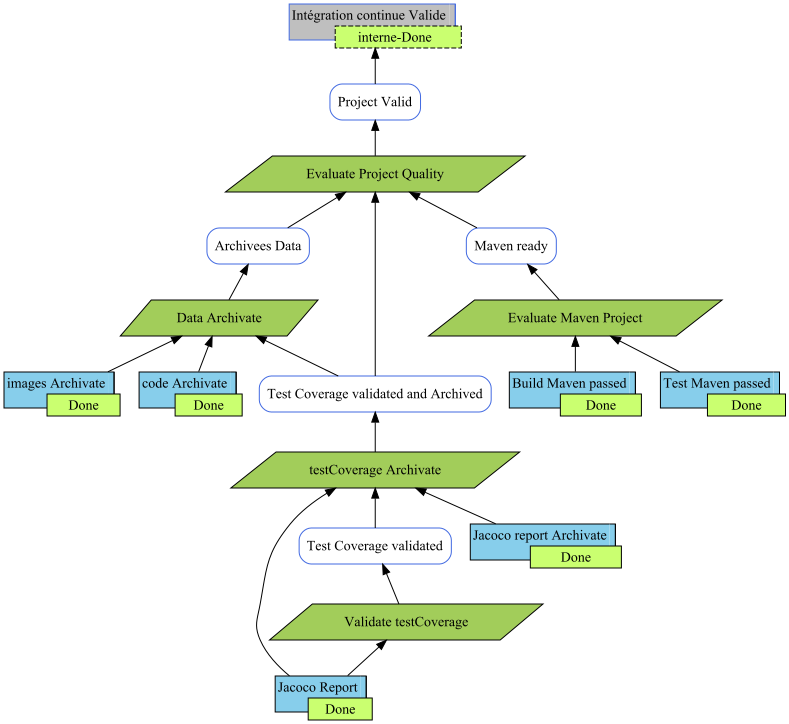
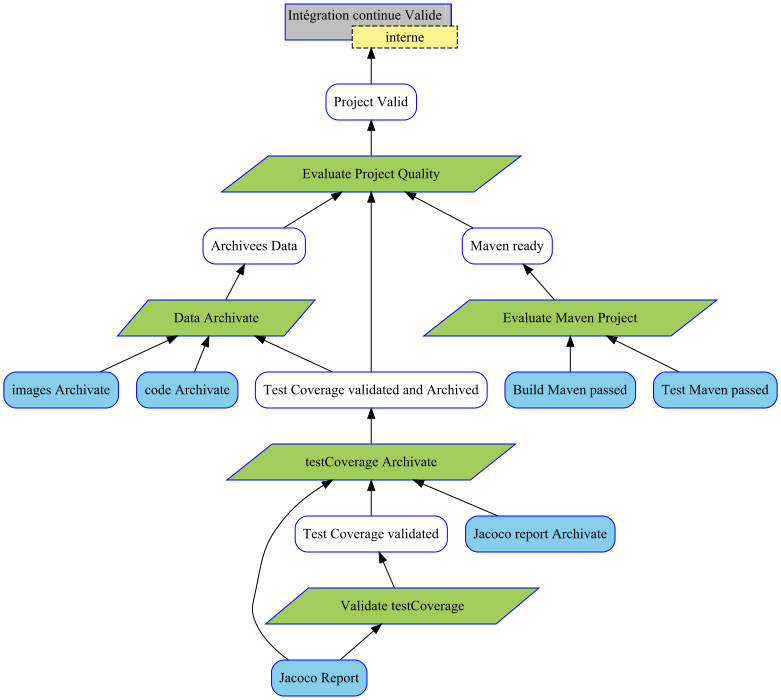
#10 Changement de la couleur du contour de chaque feuille en fonction de leur état

Changed region(s): [[0.0, 0.0, 1.0, 1.0]]

diff --git a/src/main/java/export/GraphDrawer.java b/src/main/java/export/GraphDrawer.java
@@ -37,17 +37,18 @@ public class GraphDrawer implements JDVisitor {
     public void visitConclusion(Conclusion conclusion) {
     	
         if (conclusion.restriction != null) {
-        	String string = conclusion.restriction.replaceAll("\"", "") + " - " + conclusion.state.toString();
+        	String color = setColorUsed(conclusion);
+
             gv.append("\t").append(conclusion.alias).append(" [shape=none margin=0 label=<<table cellspacing=\"0\" " +
                     "cellborder=\"1\" border=\"0\"><tr><td COLSPAN=\"2\" sides=\"LT\" BGCOLOR=\"gray75\" " +
-                    "COLOR=\"royalblue\">").append(conclusion.label, 1, conclusion.label.length() - 1)
-                    .append("</td><td sides=\"TR\" BGCOLOR=\"gray75\" COLOR=\"royalblue\"></td><td sides=\"L\" " +
-                    "COLOR=\"royalblue\"></td></tr><tr><td sides=\"LB\" BGCOLOR=\"gray75\" COLOR=\"royalblue\"></td>" +
-                    "<td sides=\"LTRB\" ROWSPAN=\"2\" colspan=\"3\" port=\"a\" BGCOLOR=\"" + setColorUsed(conclusion) + "\" style=\"dashed\">")
-                    .append(string, 0, string.length())
+                    "COLOR=\"" + color + "\">").append(conclusion.label, 1, conclusion.label.length() - 1)
+                    .append("</td><td sides=\"TR\" BGCOLOR=\"gray75\" COLOR=\"" + color + "\"></td><td sides=\"L\" " +
+                    "COLOR=\"" + color + "\"></td></tr><tr><td sides=\"LB\" BGCOLOR=\"gray75\" COLOR=\"" + color + "\"></td>" +
+                    "<td sides=\"LTRB\" ROWSPAN=\"2\" colspan=\"3\" port=\"a\" BGCOLOR=\"khaki1\" style=\"dashed\">")
+                    .append(conclusion.restriction, 1, conclusion.restriction.length() -1)
                     .append("</td></tr></table>>];\n");
         } else {
-            gv.append("\t").append(conclusion.alias).append(" [shape=box, style=\"filled,rounded\", color=royalblue, " +
+            gv.append("\t").append(conclusion.alias).append(" [shape=box, style=\"filled,rounded\", color=\"" + setColorUsed(conclusion) + "\", " +
                     "fillcolor=gray75, label=").append(conclusion.label).append("];\n");
         }
     }
@@ -56,60 +57,52 @@ public class GraphDrawer implements JDVisitor {
     public void visitSubConclusion(SubConclusion subConclusion) {
 
         if (subConclusion.restriction != null) {
-            gv.append("\t").append(subConclusion.alias).append(" [shape=none margin=0 label=<<table cellspacing=\"0\" " +
-                    "cellborder=\"1\" border=\"0\"><tr><td COLSPAN=\"2\" sides=\"LT\" BGCOLOR=\"none\" " +
-                    "COLOR=\"royalblue\">").append(subConclusion.label, 1, subConclusion.label.length() - 1)
-                    .append("</td><td sides=\"TR\" BGCOLOR=\"none\" COLOR=\"royalblue\"></td><td sides=\"L\" " +
-                            "COLOR=\"royalblue\"></td></tr><tr><td sides=\"LB\" BGCOLOR=\"none\" COLOR=\"royalblue\"></td>" +
-                            "<td sides=\"LTRB\" ROWSPAN=\"2\" colspan=\"3\" port=\"a\" BGCOLOR=\"khaki1\" style=\"dashed\">")
-                    .append(subConclusion.restriction, 1, subConclusion.restriction.length() - 1)
+        	String color = setColorUsed(subConclusion);
+        	gv.append("\t").append(subConclusion.alias).append(" [shape=none margin=0 label=<<table cellspacing=\"0\" " +
+                    "cellborder=\"1\" border=\"0\"><tr><td COLSPAN=\"2\" sides=\"LT\" BGCOLOR=\"gray75\" " +
+                    "COLOR=\"" + color + "\">").append(subConclusion.label, 1, subConclusion.label.length() - 1)
+                    .append("</td><td sides=\"TR\" BGCOLOR=\"gray75\" COLOR=\"" + color + "\"></td><td sides=\"L\" " +
+                    "COLOR=\"" + color + "\"></td></tr><tr><td sides=\"LB\" BGCOLOR=\"gray75\" COLOR=\"" + color + "\"></td>" +
+                    "<td sides=\"LTRB\" ROWSPAN=\"2\" colspan=\"3\" port=\"a\" BGCOLOR=\"khaki1\" style=\"dashed\">")
+                    .append(subConclusion.restriction, 1, subConclusion.restriction.length() -1)
                     .append("</td></tr></table>>];\n");
         } else {
-            gv.append("\t").append(subConclusion.alias).append(" [shape=box, style=\"filled,rounded\", color=royalblue, " +
+            gv.append("\t").append(subConclusion.alias).append(" [shape=box, style=\"filled,rounded\", color=\"" + setColorUsed(subConclusion) + "\", " +
                     "fillcolor=none, label=").append(subConclusion.label).append("];\n");
         }
     }
 
     @Override
     public void visitStrategy(Strategy strategy) {
-    	/*for (Relation relation : strategy.inputs) {
-			System.out.println("inputs");
-			System.out.println(relation.from.label);
-			System.out.println(relation.from.state.toString());
-			System.out.println(relation.to.label);
-		}
-    	System.out.println();
-    	
-    	*/
-
-
-        gv.append("\t").append(strategy.alias).append(" [shape=polygon, style=filled, fillcolor=darkolivegreen3, sides=4, skew=.4, label=")
+        gv.append("\t").append(strategy.alias).append(" [shape=polygon, style=filled, fillcolor=darkolivegreen3, color=\"" + setColorUsed(strategy) + "\" sides=4, skew=.4, label=")
                 .append(strategy.label).append("];\n");
     }
 
     @Override
     public void visitDomain(Domain domain) {
-        gv.append("\t").append(domain.alias).append(" [shape=ellipse, style=\"filled,dashed\", fillcolor=darkseagreen1, label=").append(domain.label).append("];\n");
+        gv.append("\t").append(domain.alias).append(" [shape=ellipse, style=\"filled,dashed\", fillcolor=darkseagreen1, color=\"" + setColorUsed(domain) + "\" label=").append(domain.label).append("];\n");
     }
 
     @Override
     public void visitRationale(Rationale rationale) {
-        gv.append("\t").append(rationale.alias).append(" [shape=ellipse, style=filled, fillcolor=peachpuff, label=").append(rationale.label).append("];\n");
+        gv.append("\t").append(rationale.alias).append(" [shape=ellipse, style=filled, fillcolor=peachpuff, color=\"" + setColorUsed(rationale) + "\" label=").append(rationale.label).append("];\n");
     }
 
     @Override
     public void visitSupport(Support support) {
 
-    	gv.append("\t").append(support.alias).append(" [shape=none margin=0 label=<<table cellspacing=\"0\" " +
+    	/*gv.append("\t").append(support.alias).append(" [shape=none margin=0 label=<<table cellspacing=\"0\" " +
                 "cellborder=\"1\" border=\"0\"><tr><td COLSPAN=\"2\" sides=\"LT\" BGCOLOR=\"skyblue\" " +
                 "COLOR=\"black\">").append(support.label, 1, support.label.length() - 1)
                 .append("</td><td sides=\"TR\" BGCOLOR=\"skyblue\" COLOR=\"black\"></td><td sides=\"L\" " +
                         "COLOR=\"black\"></td></tr><tr><td sides=\"LB\" BGCOLOR=\"skyblue\" COLOR=\"black\"></td>" +
                         "<td sides=\"LTRB\" ROWSPAN=\"2\" colspan=\"3\" port=\"a\" BGCOLOR=\"" + setColorUsed(support) + "\" style=\"filled\">")
                 .append(support.state.toString(), 0, support.state.toString().length() )
-                .append("</td></tr></table>>];\n");
+                .append("</td></tr></table>>];\n");*/
     	
-        //gv.append("\t").append(support.alias).append(" [shape=box, style=\"filled,rounded\", fillcolor=skyblue, label=").append(support.label).append("];\n");
+        gv.append("\t").append(support.alias).append(" [shape=box, style=\"filled,rounded\", fillcolor=skyblue, color=\"" + setColorUsed(support) + "\" label=").append(support.label).append("];\n");
+        
+     //   
     }
 
     @Override
@@ -123,11 +116,13 @@ public class GraphDrawer implements JDVisitor {
     }
     
     public String setColorUsed(Node node) {
-    	String colorUsed = "khaki1";
+
+    	String colorUsed = "red";
+
     	if(node.state.equals(State.DONE)) {
-    		colorUsed = "darkolivegreen1"; 
+    		colorUsed = "blue"; 
     	}
-    return colorUsed;
+    	return colorUsed;
     
-    }
+    	}
     }
